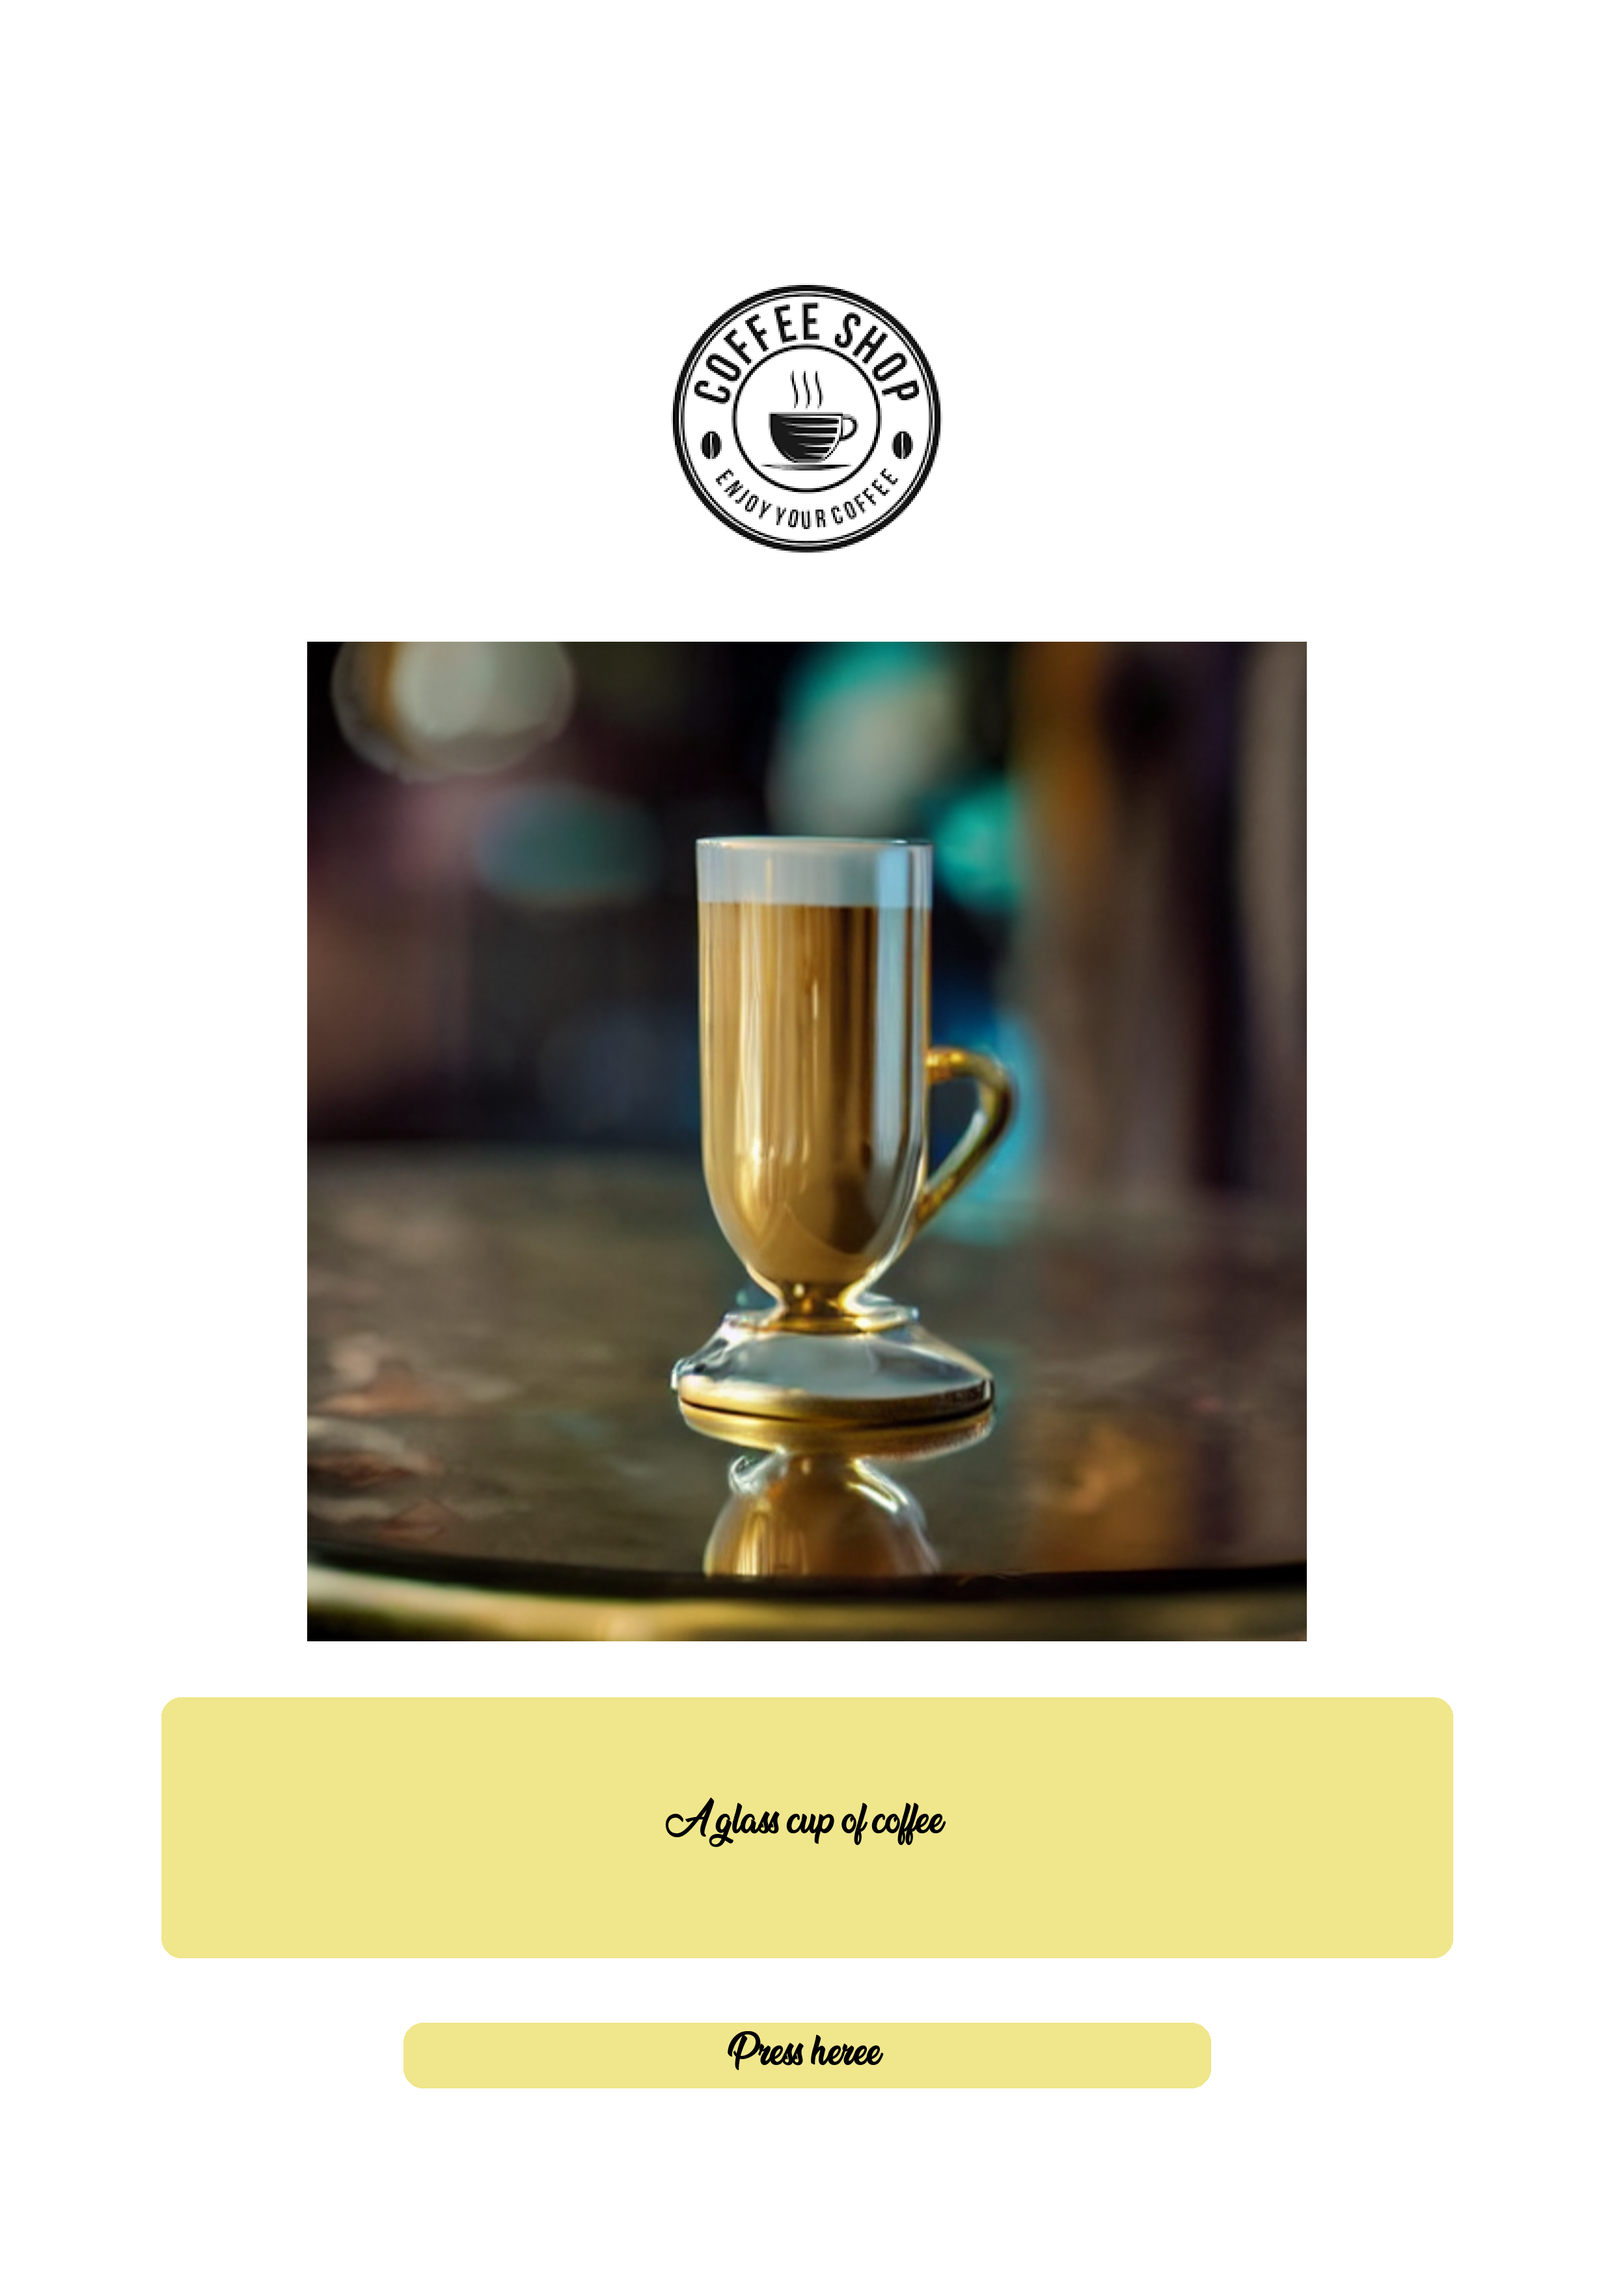
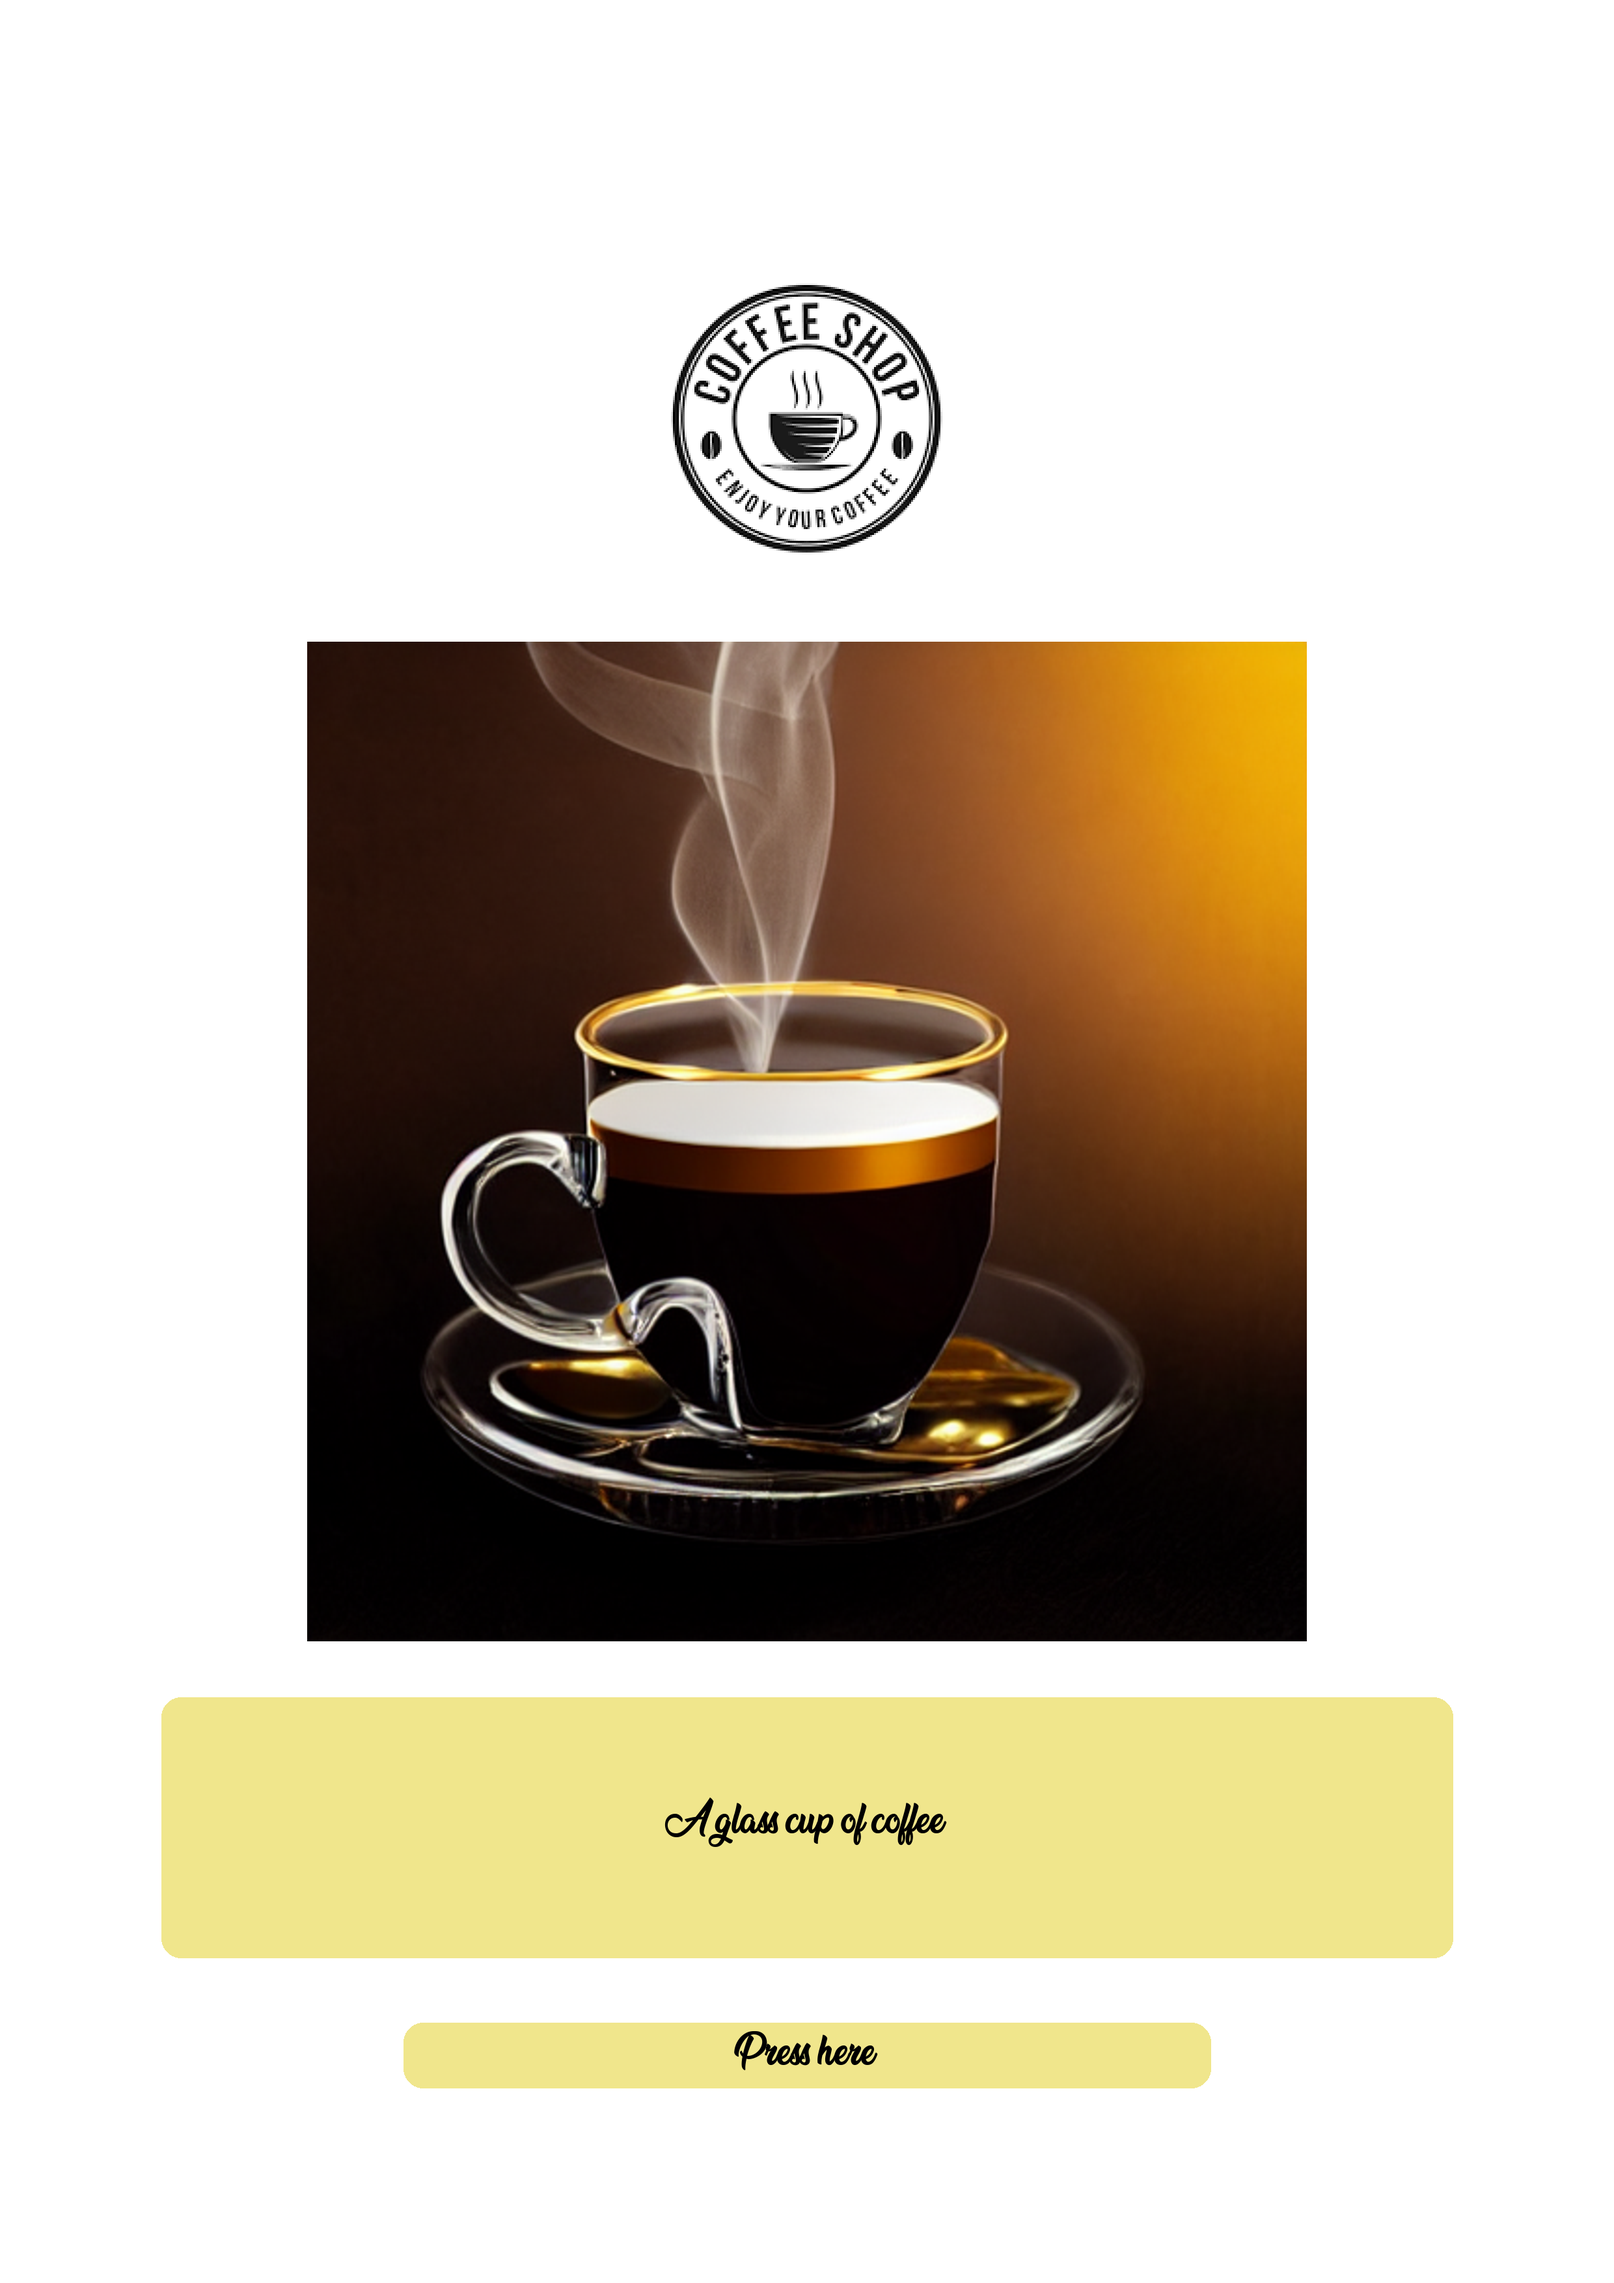
update

Changed region(s): [[0.1863, 0.2796, 0.8073, 0.7457], [0.4347, 0.87, 0.5278, 0.9011], [0.4347, 0.7768, 0.4657, 0.8079]]

diff --git a/Test_client/test_client.py b/Test_client/test_client.py
@@ -3,8 +3,8 @@ import requests
 
 def test_upload():
     url = 'http://34.16.156.84:5000/img2img'
-    # url = 'http://127.0.0.1:5000/img2img'
-    file_path = '../test_img.png'
+    url = 'http://127.0.0.1:5000/img2img'
+    file_path = '../coffee.png'
     hex_color = "#FFCE30"
     prompt_input = "A glass cup of coffee, detailed, 8k"
 
@@ -22,12 +22,12 @@ def test_upload():
 
 def test_orginizer():
     url = 'http://34.16.156.84:5000/template_img'
-    # url = 'http://127.0.0.1:5000/template_img'
+    url = 'http://127.0.0.1:5000/template_img'
     file_path1 = '../Test_client/received_image.png'
     file_path2 = '../img2img/coffee_logo.png'
     theme_color = "#FFCE80"
     punchline_text = "A glass cup of coffee"
-    button_text = "Press heree"
+    button_text = "Press here"
 
     with open(file_path1, 'rb') as f1, open(file_path2, 'rb') as f2:
         response = requests.post(url, files={'file1': f1, 'file2': f2}, data={'theme_color': theme_color, 'punchline_text': punchline_text, 'button_text': button_text })
@@ -40,4 +40,4 @@ def test_orginizer():
 
 
 test_upload()
-#test_orginizer()
+test_orginizer()
